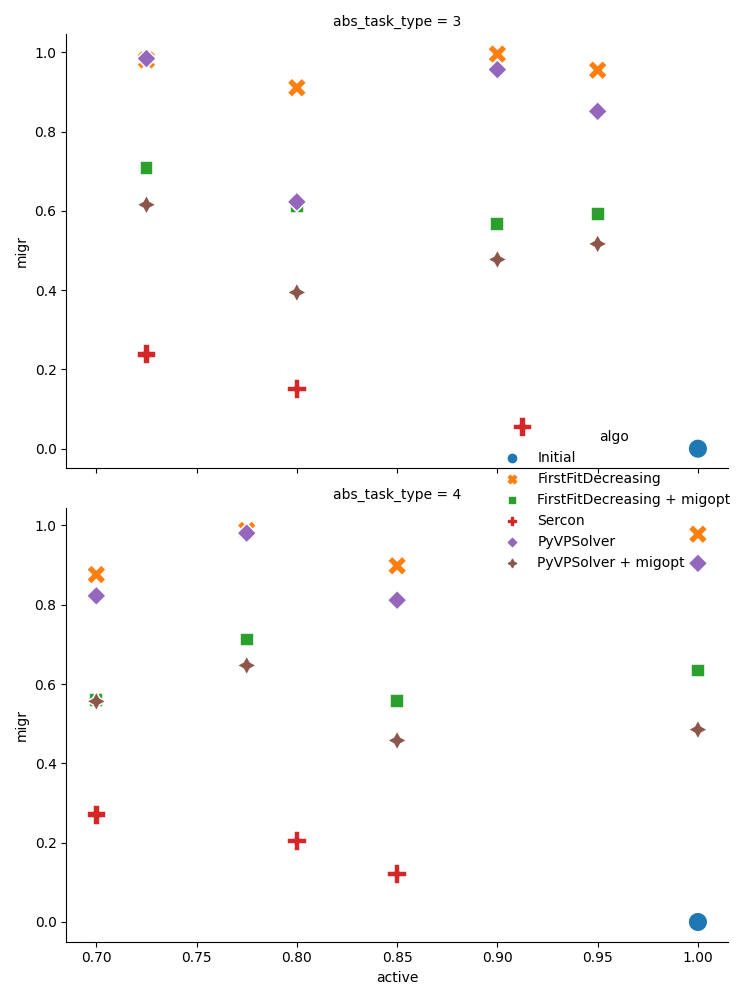
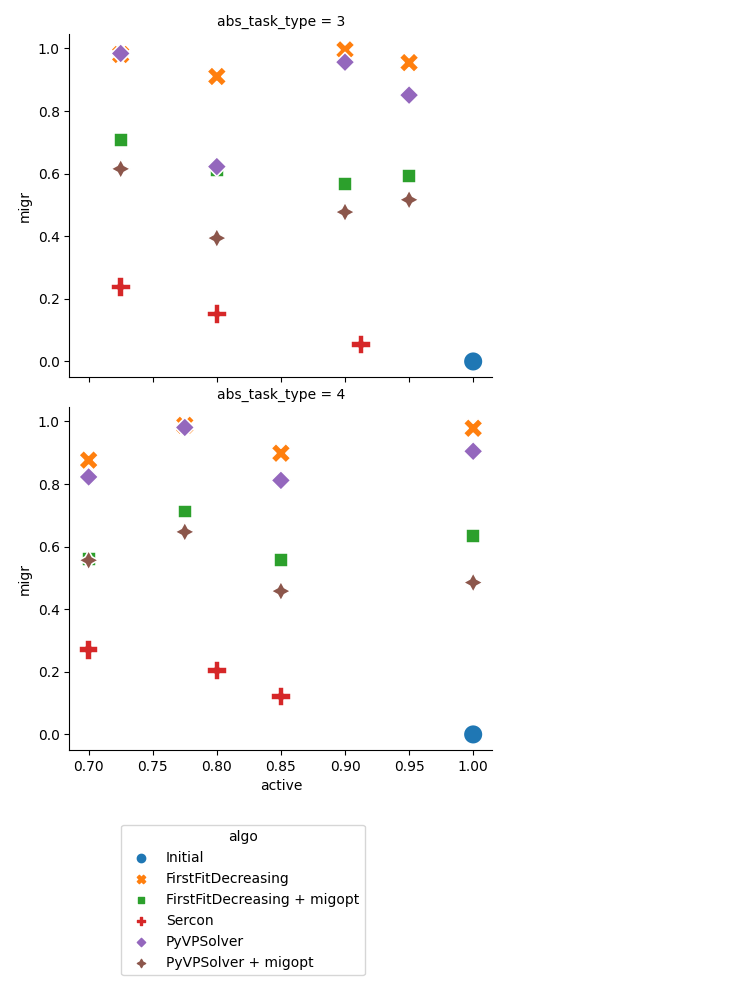
Finally, nice legend.

diff --git a/visualise.py b/visualise.py
@@ -4,8 +4,10 @@ import seaborn as sns
 
 
 def plot(data, x, y, filename):
-    sns.relplot(data=data, x=x, y=y, hue="algo", style="algo", row="abs_task_type", s=200)
-    plt.tight_layout()
+    g = sns.relplot(data=data, x=x, y=y, hue="algo", style="algo", row="abs_task_type", s=200, facet_kws={"legend_out": True})
+    plt.gcf().subplots_adjust(bottom=0.25)
+    g._legend.set_bbox_to_anchor((0.5, 0.1))
+    g._legend.set_frame_on(True)
     plt.savefig(filename)
 
 
